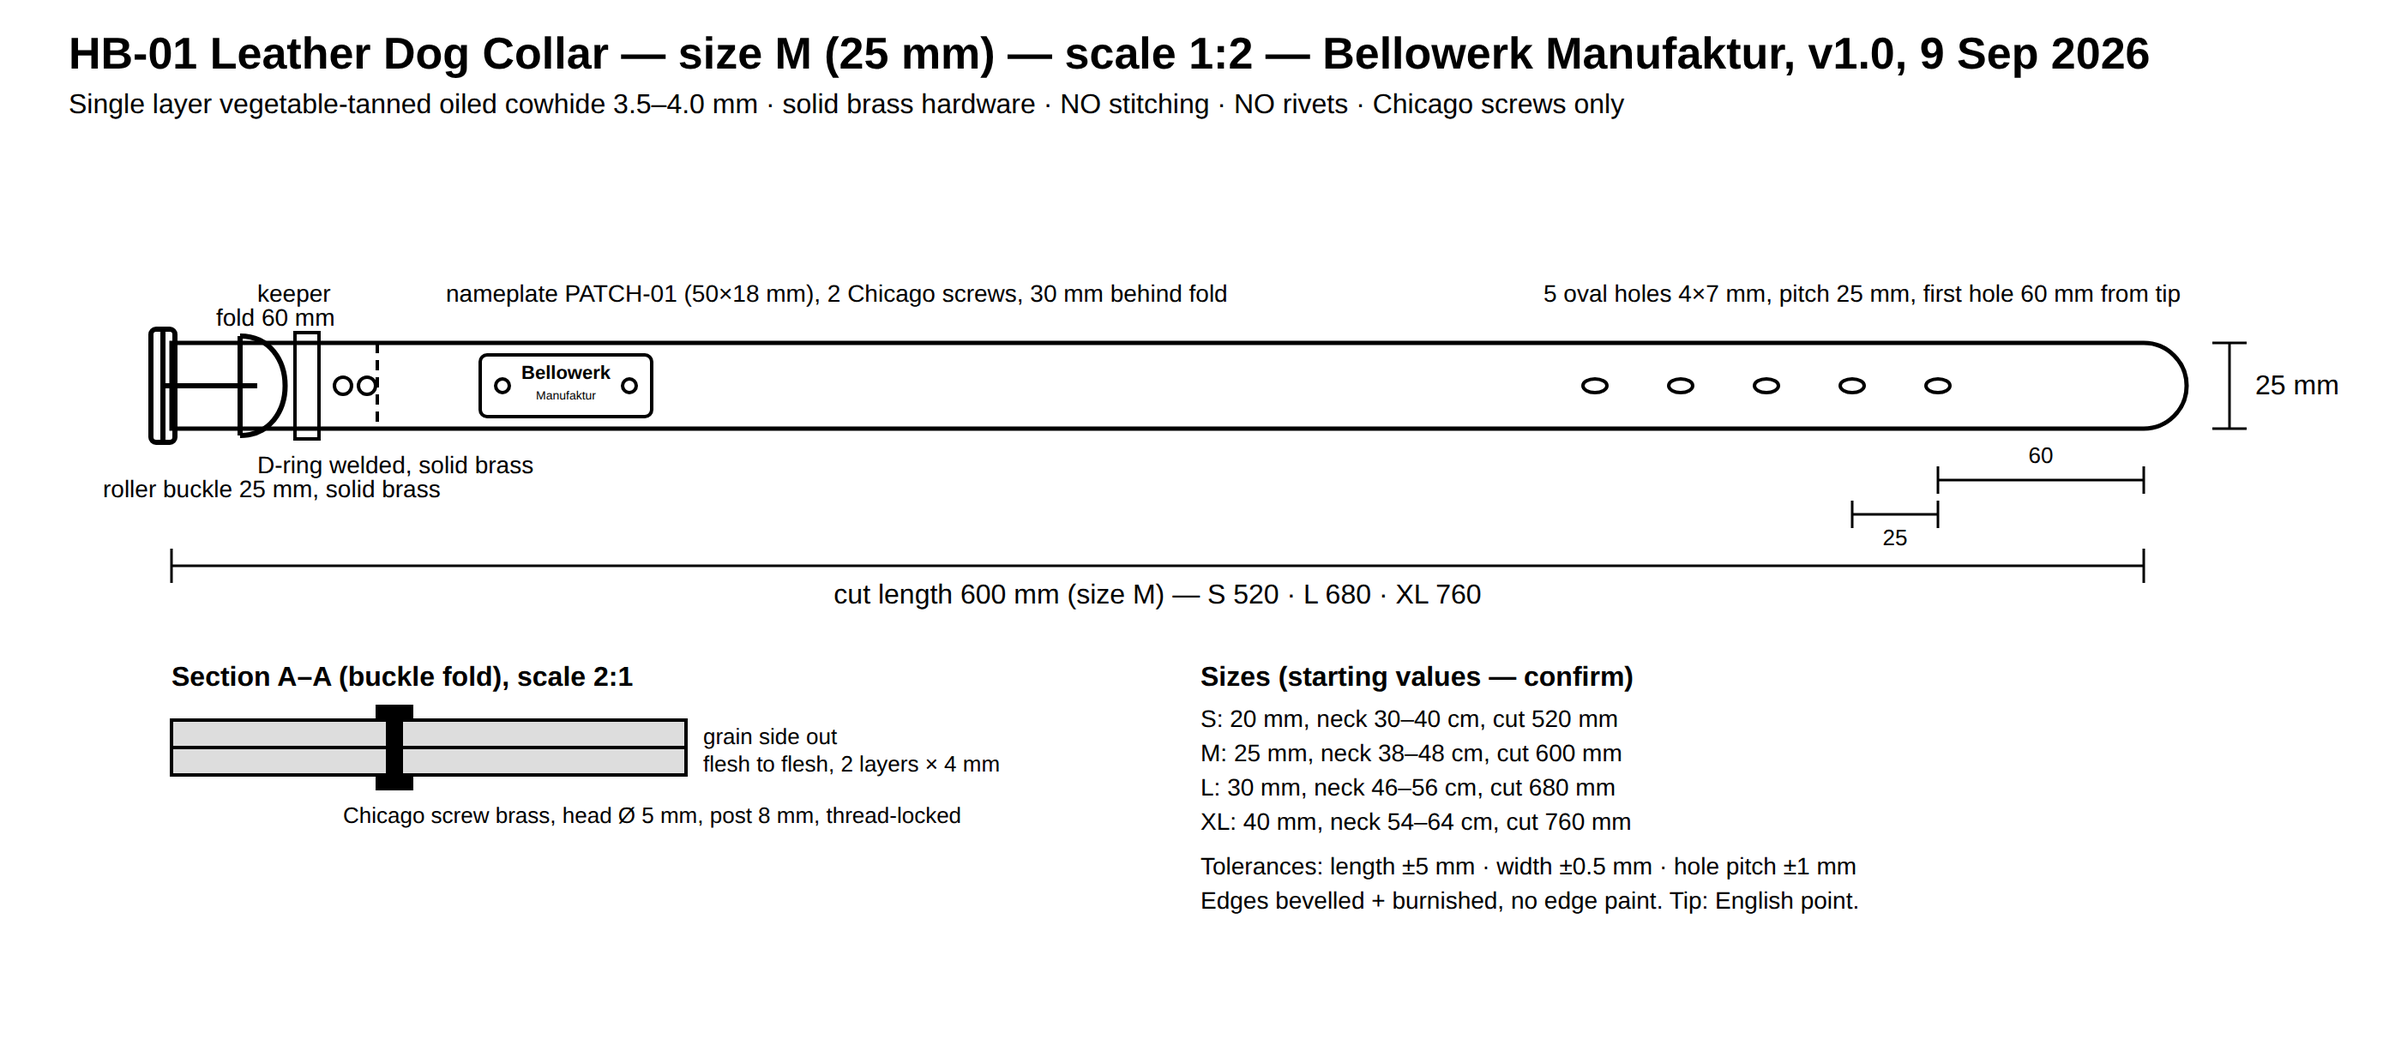
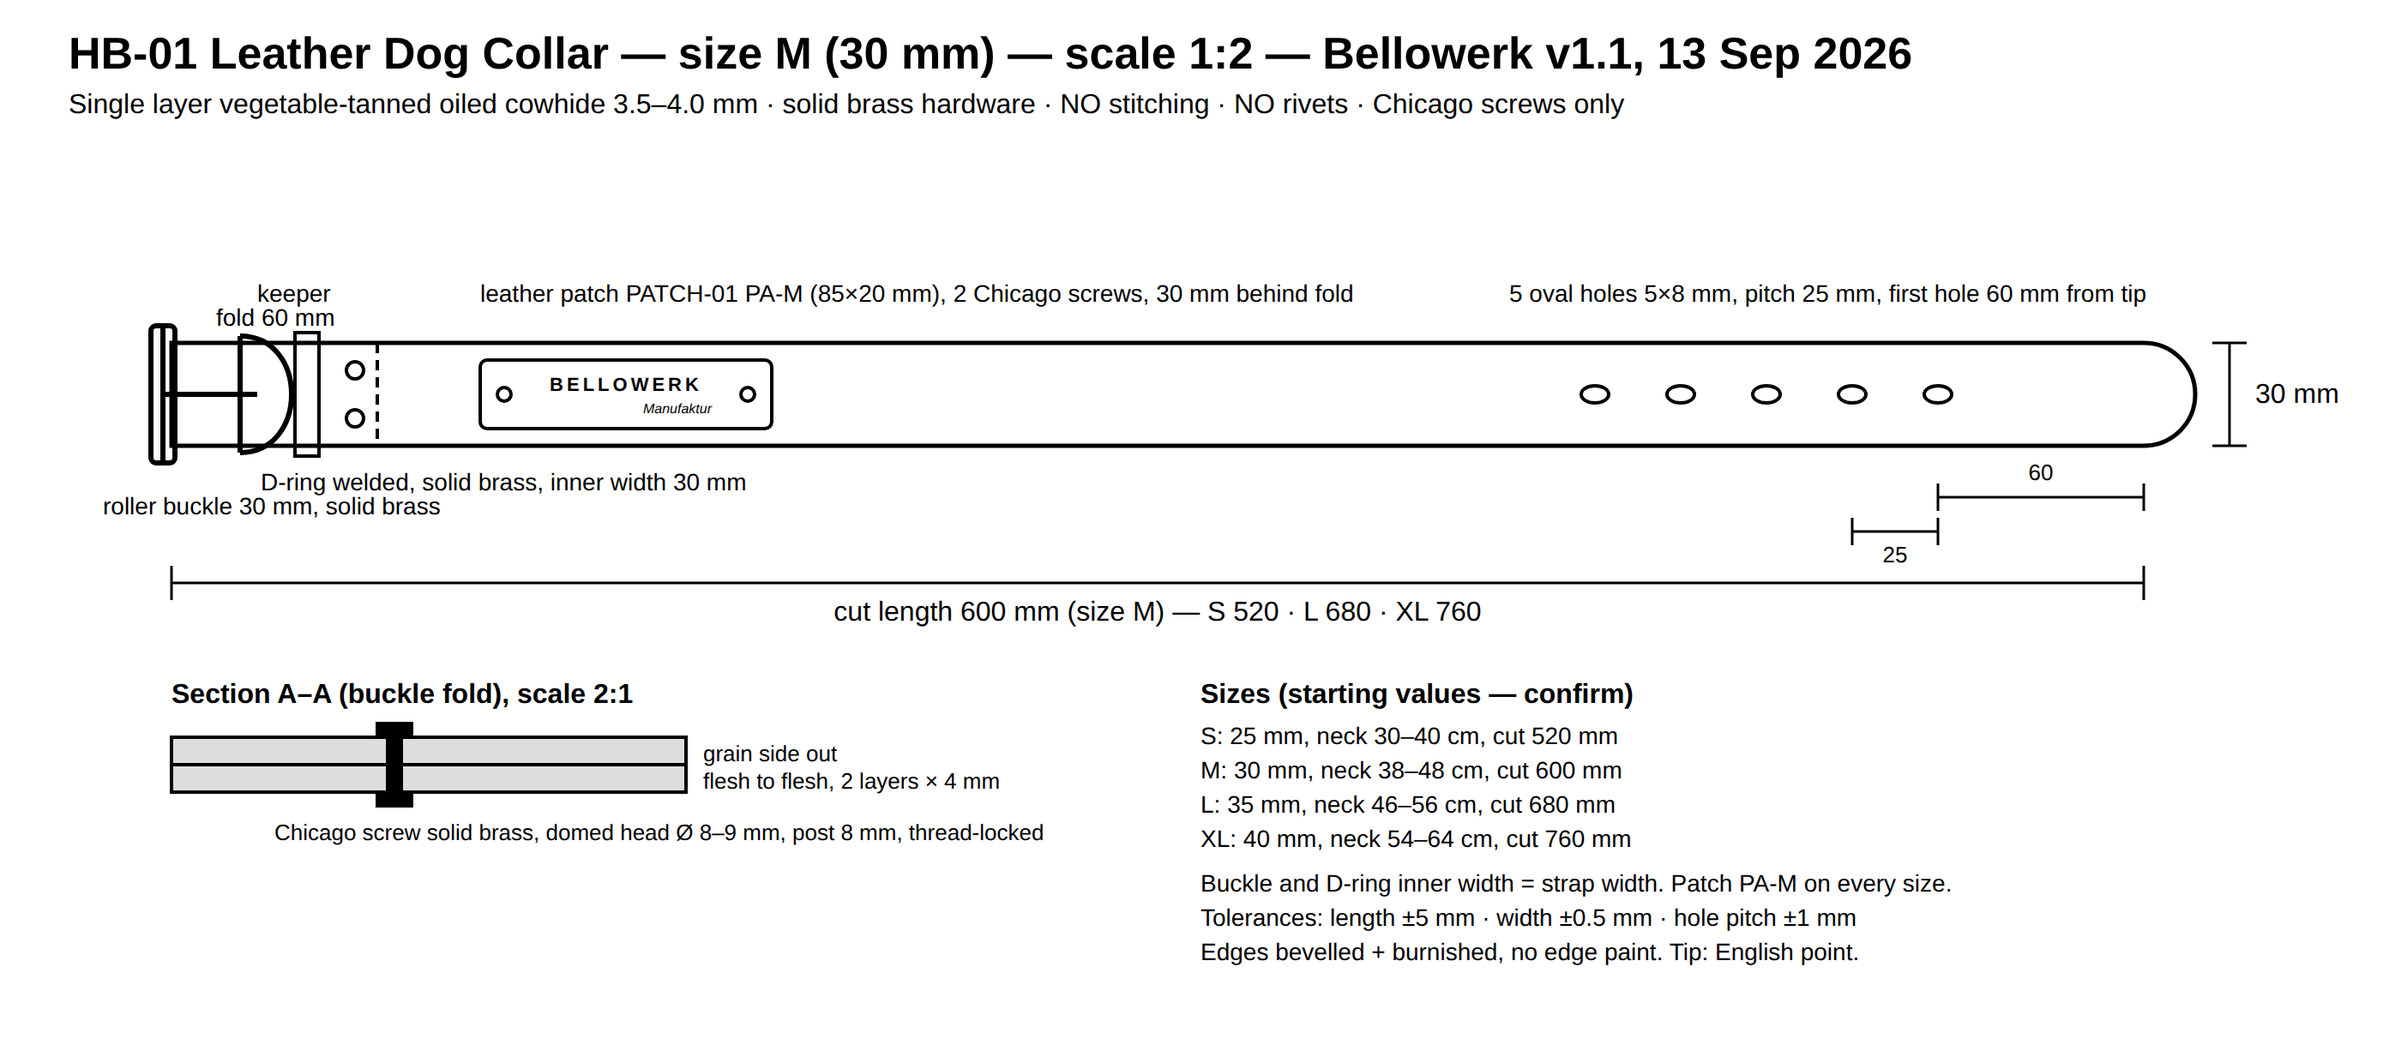
Raise the brand patch to 20 mm and widen both collars to fit it
The patch reads too small on the strap. PATCH-01 PA-M grows from 85 x 18 to
85 x 20 mm; the length stays at 85 mm, so the 71 mm hole spacing and the
whole drilling pattern are unchanged.

A taller patch needs a wider strap under it, so the collar widths move up:
HB-01 from 20/25/30/40 to 25/30/35/40 mm, HB-02 from 20/25/25/30 to the same
ladder. Neck ranges, cut lengths and the hole pitch are untouched. Below
25 mm a 20 mm patch leaves no leather visible, so 25 mm is now the floor and
PA-M sits on every collar size; PA-S is left for the 20 mm parts only, the
lead LE-01 and the hand loop HS-01.

Everything the width drives moves with it: buckle and D-ring/O-ring inner
width follow the strap, oval holes step to 5x8 mm from 30 mm up, the two
screws in the buckle fold sit side by side from 30 mm up, and the braid
strands of HB-02 grow from about 8 to 13 mm, which makes the chevron
noticeably coarser on XL - so the sample list now asks for a braid in M and
in XL.

35 mm is not a universal stock width for solid brass roller buckles, so both
tech packs now ask each supplier which widths they actually stock and offer
to adjust the strap to the hardware rather than accept plated steel or zinc.

Also in this commit: drawings re-rendered from the SVGs, with the title lines
shortened so they stop running off the right edge of HB-01, HB-02 and
PATCH-01; the drawing of HB-01 corrected, it still showed a 50x18 patch and a
[…]

diff --git a/sourcing/bellowerk/specs/HB-01-halsband.md b/sourcing/bellowerk/specs/HB-01-halsband.md
@@ -1,4 +1,4 @@
-# HB-01 — Leather Dog Collar (Tech Pack v1.0, 9 Sep 2026)
+# HB-01 — Leather Dog Collar (Tech Pack v1.1, 13 Sep 2026)
 
 Bellowerk Manufaktur, Hamburg, Germany. Contact: Björn (owner).
 Attachments: `zeichnungen/HB-01-halsband.png`, photos `bilder/HB-01-detail-patch.jpg`, `bilder/HB-01-farben-patch.jpg`.
@@ -15,12 +15,12 @@ D-ring, leather keeper. Leather patch PATCH-01 near the buckle (see `bilder/HB-0
 |---|---|
 | Leather | Cowhide, vegetable-tanned, full grain, oiled/waxed pull-up ("Fettleder"), dyed through. Thickness **3.5–4.0 mm** (±0.3). Firm grain, no loose fibres. Colours: olive, dark brown, cognac (send swatches). |
 | Buckle | Roller buckle, **solid brass** (cast HPb59-1 / CW617N or forged), brushed, unlacquered. Width = strap width. Min. breaking load 2.5 kN. |
-| D-ring | Welded, weld ground smooth, solid brass, inner width = strap width, wire Ø 4 mm (20/25 mm) or 5 mm (30/40 mm). Min. 3 kN. |
+| D-ring | Welded, weld ground smooth, solid brass, inner width = strap width, wire Ø 4 mm (25 mm) or 5 mm (30/35/40 mm). Min. 3 kN. |
 | Keeper | Leather loop, same leather, fixed with 1 Chicago screw (no stitching). |
 | Screws | Chicago screws, solid brass, domed head Ø 8–9 mm (as on photos), post 8 mm for 2 layers, 10 mm for 3 layers, thread-locked. |
-| Patch | PATCH-01 engraved leather patch (PA-M 85 × 18 mm; PA-S 65 × 14 mm on size S), 2 Chicago screws — see photos `bilder/HB-01-detail-patch.jpg`, `bilder/HB-01-farben-patch.jpg`. |
+| Patch | PATCH-01 engraved leather patch **PA-M 85 × 20 mm on every size** (the strap is never narrower than 25 mm), 2 Chicago screws — see photos `bilder/HB-01-detail-patch.jpg`, `bilder/HB-01-farben-patch.jpg`. |
 | Edges | Bevelled both sides, burnished (gum tragacanth/wax), no edge paint. |
-| Holes | Oval punch, 5 holes, pitch 25 mm, hole size 4 × 7 mm (20/25 mm strap) or 5 × 8 mm (30/40 mm). |
+| Holes | Oval punch, 5 holes, pitch 25 mm, hole size 4 × 7 mm (25 mm strap) or 5 × 8 mm (30/35/40 mm). |
 
 Not acceptable: zinc alloy, brass-plated steel, PU/bonded/split leather, stitching, rivets, plastic, lacquer.
 
@@ -28,10 +28,13 @@ Not acceptable: zinc alloy, brass-plated steel, PU/bonded/split leather, stitchi
 
 | Size | Strap width | Neck range (buckle → hole 1…5) | Cut length | Holes from tip |
 |---|---|---|---|---|
-| S | 20 mm | 30–40 cm | 52 cm | 6 / 8.5 / 11 / 13.5 / 16 cm |
-| M | 25 mm | 38–48 cm | 60 cm | 6 / 8.5 / 11 / 13.5 / 16 cm |
-| L | 30 mm | 46–56 cm | 68 cm | 6 / 8.5 / 11 / 13.5 / 16 cm |
+| S | 25 mm | 30–40 cm | 52 cm | 6 / 8.5 / 11 / 13.5 / 16 cm |
+| M | 30 mm | 38–48 cm | 60 cm | 6 / 8.5 / 11 / 13.5 / 16 cm |
+| L | 35 mm | 46–56 cm | 68 cm | 6 / 8.5 / 11 / 13.5 / 16 cm |
 | XL | 40 mm | 54–64 cm | 76 cm | 6 / 8.5 / 11 / 13.5 / 16 cm |
+
+Widths raised from 20/25/30/40 mm in v1.0: the brand patch PA-M (85 × 20 mm) must sit on every size
+with leather visible above and below it, so no collar is narrower than 25 mm. Lengths are unchanged.
 
 Cut length = max neck + 12 cm (buckle fold 6 cm incl. keeper + D-ring). Tolerance: length ±5 mm,
 width ±0.5 mm, hole pitch ±1 mm. Tip: rounded (English point), radius = half width.
@@ -40,7 +43,7 @@ width ±0.5 mm, hole pitch ±1 mm. Tip: rounded (English point), radius = half w
 
 1. Buckle fold: strap passes through buckle, folds back 60 mm, D-ring sits in the fold 20 mm behind
    the buckle, keeper 15 mm behind the D-ring.
-2. Fold fixed with **2 Chicago screws** (side by side for 30/40 mm, in line for 20/25 mm), D-ring
+2. Fold fixed with **2 Chicago screws** (side by side for 30/35/40 mm, in line for 25 mm), D-ring
    captured between them.
 3. Leather patch PATCH-01 on the outside, 30 mm behind the fold, centred on strap, 2 Chicago screws.
    Optional (Björn decides): D-ring held by a 3-strand mystery braid instead of the screwed fold — see HB-02.
@@ -68,3 +71,7 @@ brass alloy statement, breaking-load test of buckle/D-ring, REACH Cr(VI) test re
 5. Payment terms (we propose 30 % after golden sample, 70 % after final inspection before shipment)
 6. Pattern files (PDF/DXF) included — yes/no
 7. Photo of the exact brass buckle, D-ring and Chicago screw you will use, with weight in grams
+8. Which of the widths 25 / 30 / 35 / 40 mm do you hold as **stock** solid brass roller buckles and
+   welded D-rings? If one of them is not a standard size for you, tell us your nearest stock width
+   (for example 32 or 38 mm) — we adjust the strap to the hardware, we do not accept plated steel
+   or zinc alloy as a substitute.

diff --git a/sourcing/bellowerk/specs/PATCH-01-markenpatch.md b/sourcing/bellowerk/specs/PATCH-01-markenpatch.md
@@ -1,4 +1,4 @@
-# PATCH-01 — Leather Brand Patch "BELLOWERK / Manufaktur" (Tech Pack v1.1, 9 Sep 2026)
+# PATCH-01 — Leather Brand Patch "BELLOWERK / Manufaktur" (Tech Pack v1.2, 13 Sep 2026)
 
 Reference photos: `bilder/HB-01-detail-patch.jpg`, `bilder/HB-01-farben-patch.jpg` (current patch reads
 "HERR BELLO & FRAU WUFF / Manufaktur" — new patch uses the same layout with the new name).
@@ -11,17 +11,21 @@ the strap, fixed with **one solid brass Chicago screw at each end**. Lettering *
 (dark brown/black burn, no foil, no paint): line 1 "BELLOWERK" in spaced capitals, line 2 "Manufaktur"
 in a handwritten script, right-aligned under line 1. No stitching, no glue as the only fixing.
 
+Height raised from 18 to 20 mm in v1.2 (Björn, 13 Sep 2026): the patch reads too small on the
+strap. The collar widths of HB-01 and HB-02 were raised in the same step so it still sits with
+leather visible above and below. Length stays at 85 mm, so the hole spacing of 71 mm is unchanged.
+
 ## Variant A (default): engraved leather patch
 
 | | |
 |---|---|
 | Leather | Vegetable-tanned cowhide, full grain, **2.0–2.5 mm**, colour cognac / medium brown (same on all strap colours: grey, dark brown, olive, cognac). Firm, smooth grain for clean engraving. |
-| Sizes | **PA-M 85 × 18 mm** for 25–40 mm straps (collar M/L/XL, lead 25 mm) · **PA-S 65 × 14 mm** for 20 mm straps (lead LE-01, hand loop HS-01, collar S). Corner radius 3 mm. |
-| Lettering | Line 1 "BELLOWERK": spaced geometric sans-serif capitals as in the existing logo (Futura/Josefin Sans style, tracking +20 %), cap height 4.5 mm (PA-M) / 3.5 mm (PA-S). Line 2 "Manufaktur": brush script as in the logo, x-height 2.5 mm / 2.0 mm, placed under the right half of line 1. Engraving depth 0.2–0.3 mm, dark burn, no paint, no foil. Björn supplies the vector logo; the drawing is a placeholder. |
+| Sizes | **PA-M 85 × 20 mm** for 25–40 mm straps — **every collar size of HB-01 and HB-02** · **PA-S 65 × 14 mm** for 20 mm straps (lead LE-01, hand loop HS-01). Corner radius 3 mm. |
+| Lettering | Line 1 "BELLOWERK": spaced geometric sans-serif capitals as in the existing logo (Futura/Josefin Sans style, tracking +20 %), cap height 5.0 mm (PA-M) / 3.5 mm (PA-S). Line 2 "Manufaktur": brush script as in the logo, x-height 3.0 mm / 2.0 mm, placed under the right half of line 1. Engraving depth 0.2–0.3 mm, dark burn, no paint, no foil. Björn supplies the vector logo; the drawing is a placeholder. |
 | Holes | 2 × Ø 4.5 mm, hole centres 7 mm from each end → spacing **71 mm** (PA-M) / **51 mm** (PA-S) |
 | Screws | Chicago screws solid brass, head Ø 8–9 mm domed (as on photos), post 8 mm (patch + strap), thread-locked |
 | Edges | Cut clean, lightly bevelled, burnished, no edge paint |
-| Position | Collar: centred on strap, 30 mm behind buckle fold. Lead: 80 mm from hook A. Hand loop: on the overlap. |
+| Position | Collar: centred on strap, 30 mm behind buckle fold — leather visible above and below the patch on every size (2.5 mm on a 25 mm strap, 10 mm on 40 mm). Lead: 80 mm from hook A. Hand loop: on the overlap. |
 
 Artwork: vector (AI/PDF/SVG), text converted to outlines, 1:1, black = engraved. Min line width 0.3 mm,
 min gap 0.5 mm. Supplier to send a digital proof and one engraved sample before production.
@@ -30,8 +34,8 @@ min gap 0.5 mm. Supplier to send a digital proof and one engraved sample before 
 
 Same patch, but engraved with the **dog's name in spaced serif capitals** (as "AUGUST", "TILDA",
 "ENZO" in `bilder/PATCH-01-namenspatch-august.jpg`, `PATCH-01-namensgravur-detail.jpg`): one line,
-cap height 6 mm (PA-M) / 5 mm (PA-S), tracking +20 %, max. 10 characters (longer names → patch
-PA-L 110 × 18 mm). Björn's decision: **first order = Bellowerk patch only, no names.** Ask the factory
+cap height 7 mm (PA-M) / 5 mm (PA-S), tracking +20 %, max. 10 characters (longer names → patch
+PA-L 110 × 20 mm). Björn's decision: **first order = Bellowerk patch only, no names.** Ask the factory
 now whether they can engrave single pieces on demand later and at what price/lead time per piece
 (question 5 below), so the option is open.
 

diff --git a/sourcing/bellowerk/specs/HB-02-halsband-geflochten.md b/sourcing/bellowerk/specs/HB-02-halsband-geflochten.md
@@ -1,4 +1,4 @@
-# HB-02 — Braided Leather Collar (Tech Pack v1.0, 9 Sep 2026)
+# HB-02 — Braided Leather Collar (Tech Pack v1.1, 13 Sep 2026)
 
 Reference photos: `bilder/HB-02-geflochten-am-hund.jpg` (single colour, brass O-ring),
 `bilder/HB-02-zweifarbig-am-hund.jpg` (two-tone), `bilder/HB-02-und-LE-01-gruen.jpg` (flat buckle end
@@ -17,18 +17,23 @@ would do it without stitching, or quote single-colour only.
 
 ## 2. Material
 
-As HB-01: vegetable-tanned oiled cowhide 3.5–4.0 mm, solid brass roller buckle, welded O-ring (inner
-Ø 25 mm, wire 5 mm, ≥ 3 kN), Chicago screws domed head Ø 8–9 mm, patch PATCH-01.
+As HB-01: vegetable-tanned oiled cowhide 3.5–4.0 mm, solid brass roller buckle (width = strap width),
+welded O-ring (**inner width = strap width**, wire Ø 5 mm, ≥ 3 kN), Chicago screws domed head
+Ø 8–9 mm, patch PATCH-01 **PA-M 85 × 20 mm on every size**.
 Colours: grey, dark brown, olive, cognac, black.
 
 ## 3. Sizes (starting values — confirm on Björn's reference collar)
 
-| Size | Strap width | Braided section | Flat buckle end / flat hole end | Neck range |
-|---|---|---|---|---|
-| S | 20 mm | 180 mm | 140 mm / 120 mm | 30–40 cm |
-| M | 25 mm | 220 mm | 160 mm / 120 mm | 38–48 cm |
-| L | 25 mm | 260 mm | 160 mm / 140 mm | 46–56 cm |
-| XL | 30 mm | 300 mm | 180 mm / 140 mm | 54–64 cm |
+| Size | Strap width | Braided section | Flat buckle end / flat hole end | Neck range | Strand width |
+|---|---|---|---|---|---|
+| S | 25 mm | 180 mm | 140 mm / 120 mm | 30–40 cm | ≈ 8 mm |
+| M | 30 mm | 220 mm | 160 mm / 120 mm | 38–48 cm | ≈ 10 mm |
+| L | 35 mm | 260 mm | 160 mm / 140 mm | 46–56 cm | ≈ 11.5 mm |
+| XL | 40 mm | 300 mm | 180 mm / 140 mm | 54–64 cm | ≈ 13 mm |
+
+Widths raised from 20/25/25/30 mm in v1.0 and aligned with HB-01, so the brand patch PA-M
+(85 × 20 mm) sits on every size. The braid gets wider with the strap: the chevron on XL is visibly
+coarser than on S. Send the braid sample in size M and in size XL.
 
 Braiding shortens the strap by about 15 %: cut the braid section 15 % longer than the finished
 braided length. Holes on the flat hole end: 5 holes, pitch 25 mm, as HB-01.
@@ -42,7 +47,7 @@ braided length. Holes on the flat hole end: 5 holes, pitch 25 mm, as HB-01.
    ring before braiding, ring sits in a braided loop) — or, if the factory prefers, a short flat tab
    with a screwed fold. Ask which method they use; photo required.
 4. Buckle fold: plain fold 60 mm, 2 Chicago screws (buckle tongue needs the flat fold).
-5. Patch PATCH-01 on the flat buckle end, 30 mm behind the fold.
+5. Patch PATCH-01 PA-M (85 × 20 mm) on the flat buckle end, 30 mm behind the fold.
 6. Edges bevelled and burnished on strap and on every strand.
 
 ## 5. Quantity and packaging
@@ -57,3 +62,5 @@ S 10 / M 25 / L 20 / XL 5. Packing as HB-01.
 3. Two-tone braid possible without stitching — yes/no, how?
 4. Sample cost/time, MOQ, lead time, payment terms
 5. Pattern (PDF/DXF) with slit layout and cutting allowance included — yes/no
+6. Which of the widths 25 / 30 / 35 / 40 mm do you hold as stock solid brass roller buckles and
+   welded O-rings (inner width = strap width)? Name your nearest stock size if one is missing.

diff --git a/sourcing/bellowerk/markenbrief.md b/sourcing/bellowerk/markenbrief.md
@@ -31,7 +31,9 @@ Diese Datei ist die Wahrheit für alle Lieferanten-Kontakte. Änderungen hier wi
 - **Flechtung**: 3-strängiger Mystery Braid (Trick Braid) aus einem Stück, V-Muster — so werden
   Karabiner und Ringe ohne Naht befestigt (Fotos `bilder/LE-01-*.jpg`). Keine anderen Flechtarten.
 - **Patch**: Lederpatch in Cognac/Mittelbraun, lasergraviert "BELLOWERK" (Versalien, gesperrt) und
-  darunter "Manufaktur" in Schreibschrift, 2 Buchschrauben. Siehe `specs/PATCH-01-markenpatch.md`.
+  darunter "Manufaktur" in Schreibschrift, 2 Buchschrauben. **PA-M 85 × 20 mm auf allen Halsbändern,
+  PA-S 65 × 14 mm auf den 20-mm-Teilen (Leine, Handschlaufe).** Der Patch bestimmt die Mindestbreite
+  des Riemens: kein Halsband schmaler als 25 mm. Siehe `specs/PATCH-01-markenpatch.md`.
 
 ## Werkstoffe — ausgeschlossen (Verstoß = Ablehnung)
 
@@ -49,9 +51,9 @@ kein Einstieg über Windhunde
 
 | Modell | Beschreibung | Spec |
 |---|---|---|
-| HB-01 | Halsband Fettleder, einlagig, ohne Naht, S/M/L/XL, 20–40 mm, Lederpatch | `specs/HB-01-halsband.md` |
+| HB-01 | Halsband Fettleder, einlagig, ohne Naht, S/M/L/XL, 25–40 mm, Lederpatch PA-M | `specs/HB-01-halsband.md` |
 | LE-01 | Führleine 3,00 m, dreifach verstellbar, sechs Führlängen, Ringe bei 45/140/245 cm, Karabiner und Ringe im Mystery Braid | `specs/LE-01-fuehrleine.md` |
-| HB-02 | Halsband geflochten: Halsteil im Mystery Braid (ein- oder zweifarbig), O-Ring, flache Enden mit Schnalle und Patch | `specs/HB-02-halsband-geflochten.md` |
+| HB-02 | Halsband geflochten: Halsteil im Mystery Braid (ein- oder zweifarbig), O-Ring, flache Enden mit Schnalle und Patch, S/M/L/XL, 25–40 mm | `specs/HB-02-halsband-geflochten.md` |
 | LE-02 | Rundgeflochtene Leine — zurückgestellt | `specs/LE-02-fuehrleine-geflochten.md` |
 | HS-01 | Handschlaufe, Umfang 50 cm | `specs/HS-01-handschlaufe.md` |
 | PATCH-01 | Lederpatch lasergraviert "BELLOWERK / Manufaktur", 2 Buchschrauben; später Variante N mit Hundenamen | `specs/PATCH-01-markenpatch.md` |

diff --git a/sourcing/bellowerk/bilder/README.md b/sourcing/bellowerk/bilder/README.md
@@ -13,6 +13,7 @@ mit Personen) — **nicht an Lieferanten schicken**.
 | `HB-01-detail-patch.jpg` | Graues Halsband mit Lederpatch, 2 gewölbte Messing-Buchschrauben, Rollschnalle Messing, Lochreihe | HB-01, PATCH-01 Position |
 | `HB-01-farben-patch.jpg` | Vier Halsbänder gestapelt (dunkelbraun, oliv, cognac, grau) mit Patch | HB-01 Farben, Patch-Layout |
 | `HB-01-detail-dring-namenspatch.jpg` | Cognac-Halsband: D-Ring mit Buchschraube, Messing-Münzanhänger, Namenspatch "TILDA" | HB-01, PATCH-01 N |
+| `HB-01-detail-dring-buchschraube.jpg` | **Ausschnitt aus dem Bild darüber** (Original bleibt liegen): D-Ring im Umschlag, eine Buchschraube, Münzanhänger — ohne Namenspatch und ohne Bildtext | HB-01 Konstruktion Schnallenende |
 | `HB-02-geflochten-am-hund.jpg` | Halsband komplett im Mystery Braid, O-Ring, Karabiner eingehakt | HB-02 |
 | `HB-02-zweifarbig-am-hund.jpg` | Zweifarbiges Flechthalsband (dunkelbraun + grau "washed stone"), O-Ring, flaches Ende mit Schraube | HB-02 Option zweifarbig |
 | `HB-02-und-LE-01-gruen.jpg` | Grünes Flechthalsband mit Schnalle + Patch, daneben Leine mit Flechtung am Ring | HB-02 Übergang Flechtung/flach |
@@ -33,6 +34,11 @@ mit Personen) — **nicht an Lieferanten schicken**.
 | `HS-01-gesamt.jpg` | Handschlaufe komplett |
 | `PATCH-01-artwork.svg` | Vektor-Logo "BELLOWERK / Manufaktur" (Schrift in Pfade) |
 | `messing-beschlaege.jpg` | Schnalle, D-Ring, O-Ring, Karabiner, Buchschraube nebeneinander, Lineal |
+
+## Hinweis zu Ausschnitten
+
+Ausschnitte werden **aus den Originalen gezogen**, die Originaldatei bleibt unverändert liegen.
+Dateiname des Ausschnitts beschreibt, was zu sehen ist, nicht woher er stammt.
 
 ## Regeln
 

diff --git a/sourcing/bellowerk/zeichnungen/README.md b/sourcing/bellowerk/zeichnungen/README.md
@@ -6,11 +6,11 @@ WeChat, E-Mail). Jede Anfrage an einen Lieferanten bekommt die passende PNG plus
 
 | Datei | Modell | Stand |
 |---|---|---|
-| `HB-01-halsband.svg/.png` | Halsband Fettleder, Größe M, Schnallenfalte, Lochbild, Patch-Position | v1.0 |
+| `HB-01-halsband.svg/.png` | Halsband Fettleder, Größe M (30 mm), Schnallenfalte, Lochbild, Patch-Position | v1.1 |
 | `LE-01-fuehrleine.svg/.png` | Führleine 3,00 m, Ringe 45/140/245 cm, Mystery-Braid-Anbindung, sechs Führlängen | v1.1 |
-| `PATCH-01-lederpatch.svg/.png` | Lederpatch graviert PA-M 85×18 und PA-S 65×14, Bohrbild, Schnitt | v1.1 |
+| `PATCH-01-lederpatch.svg/.png` | Lederpatch graviert PA-M 85×20 und PA-S 65×14, Bohrbild, Schnitt | v1.2 |
 | `HS-01-handschlaufe.svg/.png` | Handschlaufe 50 cm | v1.0 |
-| `HB-02-geflochten.svg/.png` | Flechthalsband: flache Enden, Mystery Braid mit O-Ring, Patch | v1.0 |
+| `HB-02-geflochten.svg/.png` | Flechthalsband Größe M (30 mm): flache Enden, Mystery Braid mit O-Ring, Patch | v1.1 |
 
 Startwerte (Größentabellen, Lochabstände) sind aus der Kernserie abgeleitet und von Björn am
 Referenzstück zu bestätigen. Änderungen: SVG editieren, dann PNG neu rendern:
